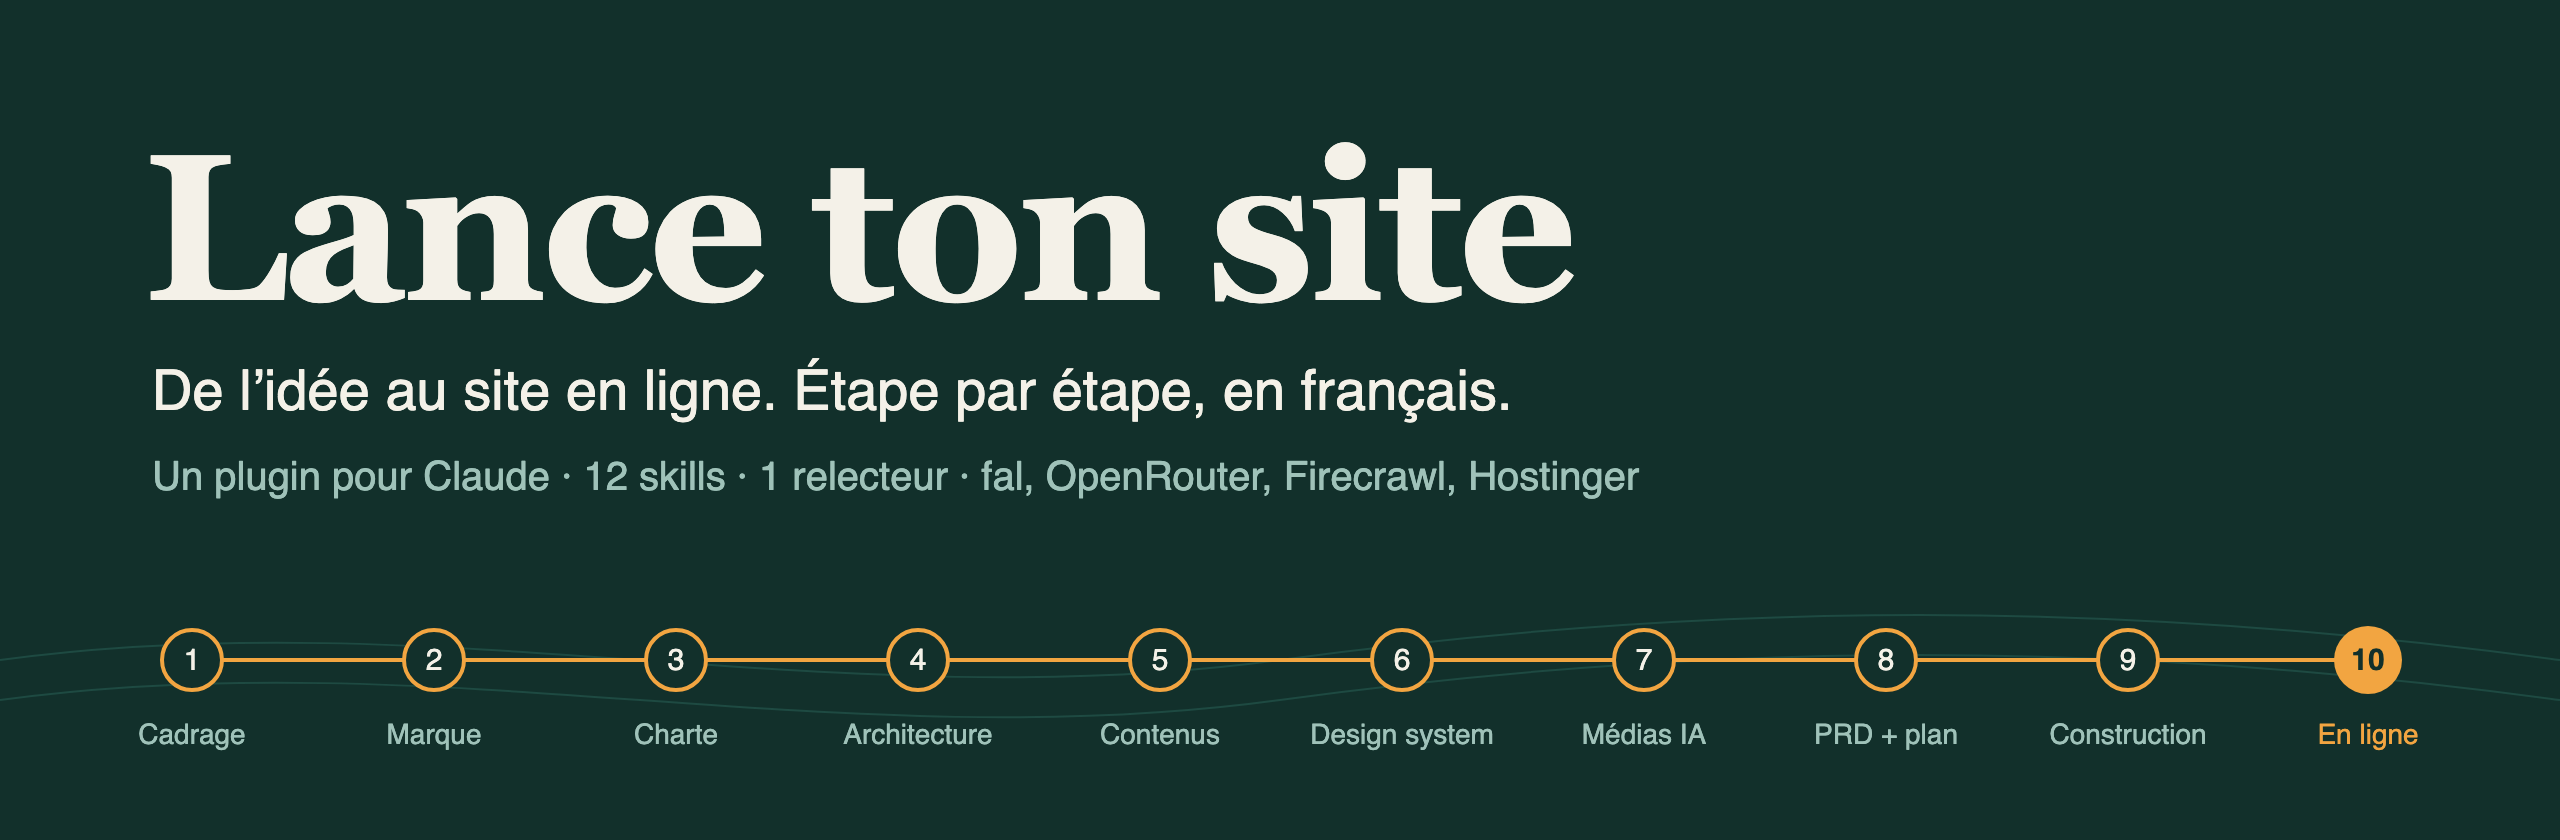
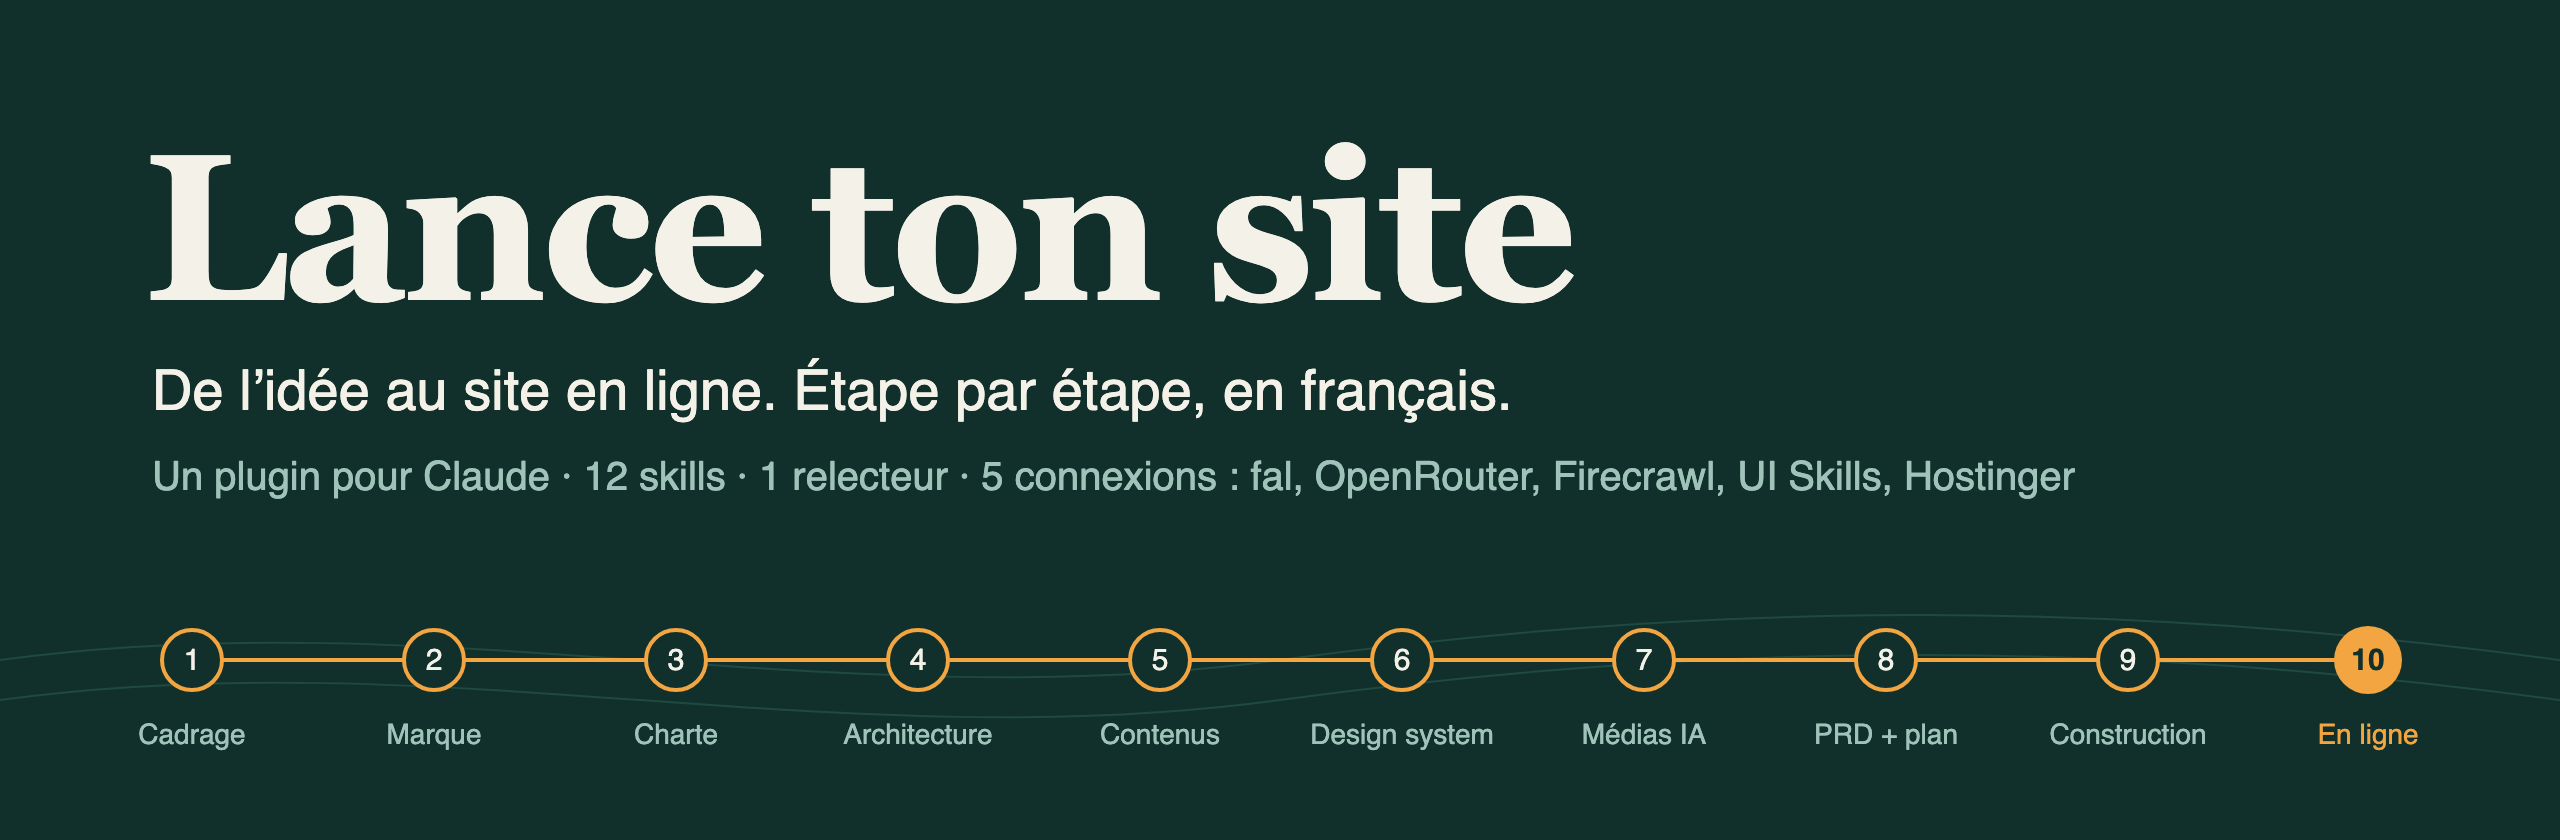
1.0.3 — Connexion UI Skills embarquée
Ajoute le serveur MCP ui-skills.com (sans compte) : ui-ux-pro-max, impeccable
et plus de 600 skills UI sans installation. Une version locale reste
prioritaire ; les données intégrées servent de secours.

Changed region(s): [[0.375, 0.5262, 0.8125, 0.5881]]

diff --git a/README.md b/README.md
@@ -121,8 +121,8 @@ pu être fait.
 
 ## 🔌 Les connexions (facultatives)
 
-Le plugin embarque quatre connexions. **Aucune clé à copier** : au premier usage, une
-fenêtre de connexion s'ouvre dans ton navigateur. Sans elles, Lance ton site fonctionne quand
+Le plugin embarque cinq connexions. **Aucune clé à copier** : au premier usage, une
+fenêtre de connexion s'ouvre dans ton navigateur (UI Skills n'en demande même pas). Sans elles, Lance ton site fonctionne quand
 même — il te donne alors des prompts prêts à coller.
 
 | Service | Sert à | Quand | Coût |
@@ -130,12 +130,13 @@ même — il te donne alors des prompts prêts à coller.
 | 🎨 **[fal](https://fal.ai)** | générer photos, vidéos, sons, logos vectoriels | étapes 3 et 7 | à l'usage (quelques centimes par image) — budget annoncé avant chaque lot |
 | 🧠 **[OpenRouter](https://openrouter.ai)** | images Gemini, second avis d'un autre modèle IA | étapes 5 et 7 | à l'usage |
 | 🔎 **[Firecrawl](https://www.firecrawl.dev)** | lire des sites : avis clients, concurrents, sites de référence, ton site actuel | étapes 1, 3 et refonte | offre gratuite pour démarrer, puis à l'usage |
+| 🎛 **[UI Skills](https://www.ui-skills.com)** | plus de 600 skills de design d'interface, dont **ui-ux-pro-max** et **impeccable** | étapes 6 et 9 | gratuit, sans compte |
 | 🖥 **[Hostinger](https://www.hostinger.fr)** | piloter ton VPS et ton nom de domaine | étape 10 | ton abonnement VPS |
 
-Pour aller plus loin, installe aussi ces skills : Lance ton site s'en servira automatiquement.
-
-- [**ui-ux-pro-max**](https://github.com/nextlevelbuilder/ui-ux-pro-max-skill) — base de styles, palettes et règles UX (une partie est déjà intégrée).
-- [**impeccable**](https://github.com/pbakaus/impeccable) — critique de design très exigeante contre le « fait par IA ».
+**Rien d'autre à installer.** [ui-ux-pro-max](https://github.com/nextlevelbuilder/ui-ux-pro-max-skill)
+(styles, palettes, règles UX) et [impeccable](https://github.com/pbakaus/impeccable)
+(critique anti-« fait par IA ») arrivent par la connexion UI Skills. Si tu les as déjà
+installés sur ton ordinateur, Lance ton site utilise ta version locale.
 
 ---
 
@@ -287,7 +288,7 @@ meilleures** — Lance ton site commence toujours par te demander ce que tu as.
 
 Lance ton site ne collecte aucune donnée : c'est un ensemble d'instructions et de scripts qui
 s'exécutent dans ta session Claude. Tes documents restent dans ton dossier `projet-site/`.
-Quand tu utilises une connexion (fal, OpenRouter, Firecrawl, Hostinger), les
+Quand tu utilises une connexion (fal, OpenRouter, Firecrawl, UI Skills, Hostinger), les
 données nécessaires à la tâche sont envoyées à ce service, selon sa propre politique de
 confidentialité : [fal](https://fal.ai/legal/privacy-policy), [OpenRouter](https://openrouter.ai/privacy),
 [Firecrawl](https://www.firecrawl.dev/privacy-policy), [Hostinger](https://www.hostinger.com/fr/legal/politique-de-confidentialite).

diff --git a/skills/design-system/SKILL.md b/skills/design-system/SKILL.md
@@ -20,12 +20,14 @@ construit pour les **pages réelles** de l'architecture avec les **vrais textes*
 ## Outils
 
 - Skill `ui-ux-pro-max` installé → l'utiliser pour la recherche de style et les règles UX.
-  Sinon, données intégrées (MIT, nextlevelbuilder/ui-ux-pro-max-skill) dans `data/` :
+  Sinon MCP `ui-skills` → `get_skill` `nextlevelbuilder-ui-ux-pro-max` (et
+  `nextlevelbuilder-design-system` pour les tokens). Sinon, données intégrées (MIT, nextlevelbuilder/ui-ux-pro-max-skill) dans `data/` :
   `styles.csv` (50 styles actifs), `typography.csv`, `colors.csv`, `landing.csv`,
   `ux-guidelines.csv`, `motion.csv`. Recherche (mots clés **en anglais**, les données le
   sont) : `python3 ${CLAUDE_SKILL_DIR}/scripts/chercher.py styles "raw editorial natural"`.
 - Skill `impeccable` installé → l'utiliser pour la critique finale (mode critique/audit).
-  Sinon, grille intégrée [references/anti-patterns.md](references/anti-patterns.md).
+  Sinon MCP `ui-skills` → `get_skill` `pbakaus-impeccable`, puis `pbakaus-critique` /
+  `pbakaus-polish`. Sinon, grille intégrée [references/anti-patterns.md](references/anti-patterns.md).
   En cas de désaccord entre `ui-ux-pro-max` et `impeccable` (ou la grille), c'est
   `impeccable` / la grille anti-« IA » qui l'emporte.
 
@@ -100,7 +102,7 @@ textes du site, en clair. Responsive. La montrer à l'utilisateur.
 
 ## 6. La critique (obligatoire)
 
-1. Passer la démo à `impeccable` (critique/audit) ou à la grille
+1. Passer la démo à `impeccable` (installé, ou via `ui-skills`) ou à la grille
    [references/anti-patterns.md](references/anti-patterns.md).
 2. Capturer `demo.html` en pleine page à 375 px et 1440 px (navigateur intégré, Chrome
    ou Playwright) dans `06-design-system/captures/`, puis lancer l'agent `relecteur` avec

diff --git a/commun/conventions.md b/commun/conventions.md
@@ -104,8 +104,9 @@ claire. Un tour qui se termine sur un résumé sans question laisse l'utilisateu
 | Lire un site, extraire couleurs et polices MCP `firecrawl` (embarqué, connexion OAuth) : `firecrawl_scrape`, formats `branding` + `screenshot` | `WebFetch` + description de l'utilisateur |
 | Images, vidéos, sons | MCP `fal` (embarqué, connexion OAuth) | MCP `openrouter`, sinon prompts prêts à coller |
 | Second avis d'un autre modèle | MCP `openrouter` | relecture par l'agent `relecteur` |
-| Style et catalogue UI | skill `ui-ux-pro-max` s'il est installé | données intégrées à `design-system/data/` |
-| Critique anti-« IA générique » | skill `impeccable` s'il est installé | grille intégrée `design-system/references/anti-patterns.md` |
+| Style et catalogue UI | skill `ui-ux-pro-max` s'il est installé, sinon MCP `ui-skills` (embarqué, sans connexion) : `get_skill` `nextlevelbuilder-ui-ux-pro-max` | données intégrées à `design-system/data/` |
+| Critique anti-« IA générique » | skill `impeccable` s'il est installé, sinon MCP `ui-skills` : `get_skill` `pbakaus-impeccable` (et `pbakaus-critique`, `pbakaus-polish`) | grille intégrée `design-system/references/anti-patterns.md` |
+| Autres savoir-faire UI (typo, motion, accessibilité, une techno précise) | MCP `ui-skills` : `list_skills` puis `get_skill` | ce qu'on sait déjà |
 | Serveur, DNS | MCP `hostinger` (embarqué, OAuth) | SSH seul |
 
 Un outil absent n'arrête jamais une étape : le dire en une phrase et continuer.

diff --git a/skills/demarrer/SKILL.md b/skills/demarrer/SKILL.md
@@ -65,6 +65,7 @@ un appel ouvrirait tout de suite une fenêtre de connexion.
 | OpenRouter | images, second avis IA | 5, 7 |
 | Hostinger | serveur, nom de domaine | 10 |
 | Firecrawl | lire des sites (avis, concurrents, site actuel) | 1, 3, refonte |
+| UI Skills | ui-ux-pro-max, impeccable et 600 skills UI (sans connexion) | 6, 9 |
 
 Résumer en un tableau « disponible / à connecter le moment venu ». La connexion se fait
 à l'étape concernée (fenêtre de navigateur au premier appel). Ne bloquer sur rien.
@@ -73,8 +74,8 @@ Vérifier aussi les outils de l'ordinateur utiles plus tard, sans rien installer
 `python3`, `node`, `ffmpeg`, `rsync`, `ssh`. Noter ceux qui manquent dans `00-etat.md` ;
 on les installera à l'étape qui en a besoin.
 
-Signaler aussi, s'ils sont installés, les skills qui renforcent Lance ton site :
-`ui-ux-pro-max`, `impeccable`. S'ils manquent, Lance ton site fonctionne quand même.
+`ui-ux-pro-max` et `impeccable` n'ont pas à être installés : ils arrivent par UI Skills.
+S'ils sont installés en local, le signaler : la version locale sera utilisée.
 
 ## 6. Lancer — obligatoire, toujours en dernier
 

diff --git a/skills/construire/SKILL.md b/skills/construire/SKILL.md
@@ -101,7 +101,7 @@ Une fois toutes les tâches faites :
 6. **Revue finale indépendante** : prendre des captures pleine page à 375 px et
    1440 px des pages principales (`site/.lancetonsite/captures/`), puis lancer l'agent
    `relecteur` en lui donnant les chemins des captures et des fichiers source (ou
-   `impeccable` si installé) — anti-« IA générique », fidélité au design system, textes.
+   `impeccable`, installé ou via le MCP `ui-skills`) — anti-« IA générique », fidélité au design system, textes.
    Corriger les points bloquants et importants ; noter les mineurs.
 
 ## 5. Bilan

diff --git a/skills/design-system/references/anti-patterns.md b/skills/design-system/references/anti-patterns.md
@@ -2,7 +2,7 @@
 
 Grille écrite pour Lance ton site, inspirée des principes publiés par Impeccable
 (pbakaus/impeccable, Apache-2.0) et `frontend-design` (anthropics/skills, Apache-2.0).
-À utiliser quand le skill `impeccable` n'est pas installé — sinon, `impeccable` fait foi.
+À utiliser quand `impeccable` n'est disponible ni en local ni via le MCP `ui-skills` — sinon, `impeccable` fait foi.
 
 Chaque point trouvé est noté : **bloquant** (à corriger avant livraison) ou **à
 justifier** (acceptable si la charte l'impose explicitement).

diff --git a/NOTICE.md b/NOTICE.md
@@ -59,6 +59,6 @@ Ces skills ont inspiré des méthodes réécrites ; aucun texte n'en est copié.
 
 ## Outils et services appelés (non inclus)
 
-fal.ai, OpenRouter, Hostinger, Firecrawl, ainsi que les skills `ui-ux-pro-max` et
-`impeccable` s'ils sont installés : ils restent sous leurs propres conditions
+fal.ai, OpenRouter, Hostinger, Firecrawl, UI Skills (ui-skills.com), ainsi que les skills
+`ui-ux-pro-max` et `impeccable` (installés ou chargés via UI Skills) : ils restent sous leurs propres conditions
 d'utilisation.

diff --git a/CHANGELOG.md b/CHANGELOG.md
@@ -1,5 +1,11 @@
 # Journal des versions
 
+## 1.0.3 — 2026-11-03
+
+- Connexion UI Skills embarquée (ui-skills.com, sans compte) : ui-ux-pro-max,
+  impeccable et plus de 600 skills UI sans rien installer. Une version installée en
+  local reste prioritaire.
+
 ## 1.0.2 — 2026-11-03
 
 - Connexion Firecrawl embarquée (OAuth, sans clé) : lecture des avis, des sites
